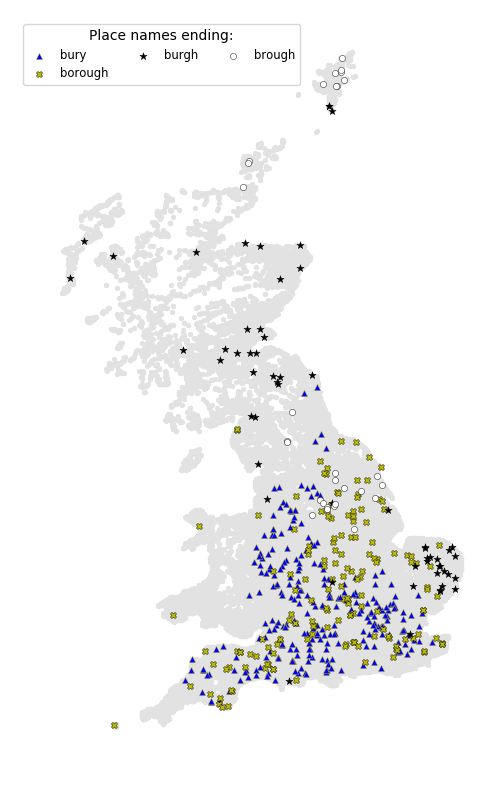
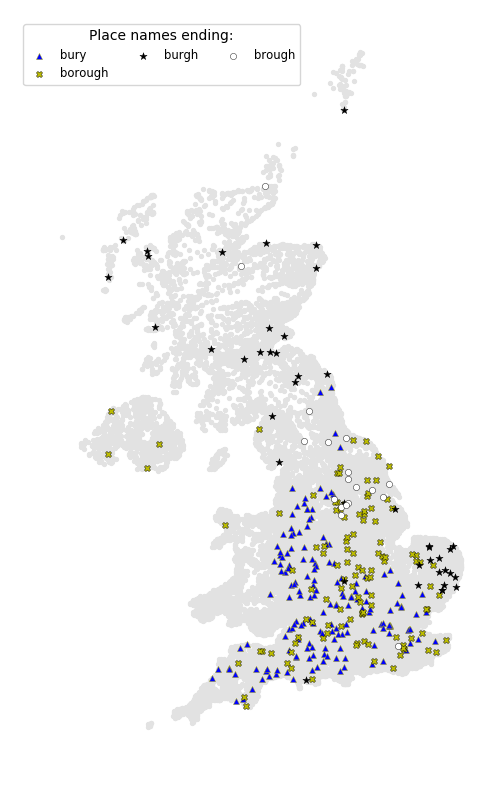
maintenance and pruning of maps

Changed region(s): [[0.12, 0.1562, 0.93, 0.9062], [0.6, 0.0625, 0.75, 0.1562]]

diff --git a/README.md b/README.md
@@ -34,17 +34,11 @@ Few surprises here: a well-defined line is drawn around parts of the coast with 
 
 ![bury, borough, burgh, brough](images/coords_bury_borough_burgh_brough.png)
 
-![hampton](images/coords_hampton.png)
-
 ![inver, mouth, aber](images/coords_inver_mouth_aber.png)
 
 "Aber", "Mouth", and "Inver" all refer to river mouths. Interesting to note that "Aber" is shared between Scotland and Wales, while "Inver" is exclusively Scottish.
 
 ![green](images/coords_green.png)
-
-"Green" appears to mostly occupy non-Danelaw areas of England.
-
-![ingdon](images/coords_ingdon.png)
 
 ![thorp](images/coords_thorp.png)
 
@@ -56,9 +50,7 @@ Interesting that "worth" is well spread over England but does not venture into S
 
 ![chester, cester, caster](images/coords_chester_cester_caster.png)
 
-'Cester' seems like a southern variation, and 'caster' a northern variation. Uses of '[chester](https://en.wikipedia.org/wiki/Chester_(placename_element))' itself reach up to the [Antonine Wall](https://en.wikipedia.org/wiki/Antonine_Wall).
-
-![Antonine Wall](images/antonine_wall.png) (Source: [Wikipedia](https://en.wikipedia.org/wiki/Antonine_Wall))
+'Cester' seems like a southern variation, and 'caster' a northern variation. Uses of '[chester](https://en.wikipedia.org/wiki/Chester_(placename_element))' itself reach up into Northumbria.
 
 ![combe](images/coords_combe.png)
 
@@ -69,8 +61,6 @@ Interesting that "worth" is well spread over England but does not venture into S
 ![bourne](images/coords_bourne.png)
 
 ![stead](images/coords_stead.png)
-
-![pool](images/coords_pool.png)
 
 ![cwm](images/coords_cwm.png)
 
@@ -86,19 +76,17 @@ Interesting that "worth" is well spread over England but does not venture into S
 
 ![higher-, upper-](images/coords_higher_upper.png)
 
+I have kept the version from the older dataset as the difference is much more apparent.
+
 ![bister, setter](images/coords_bister_setter.png)
 
-![down, downs](images/coords_down_downs.png)
-
-![ley, ly, leigh, lee, lie](images/coords_ley_etc.png)
+![ley, ly, leigh](images/coords_ley_etc.png)
 
 ![wald, wold, weald](images/coords_wald_wold_weald.png)
 
 Weald is [Old/Middle English for "wood"](https://en.wiktionary.org/wiki/weald#English).
 
 ![toft](images/coords_toft.png)
-
-![garth](images/coords_garth.png)
 
 ## Most common dictionary words in British place names
 
